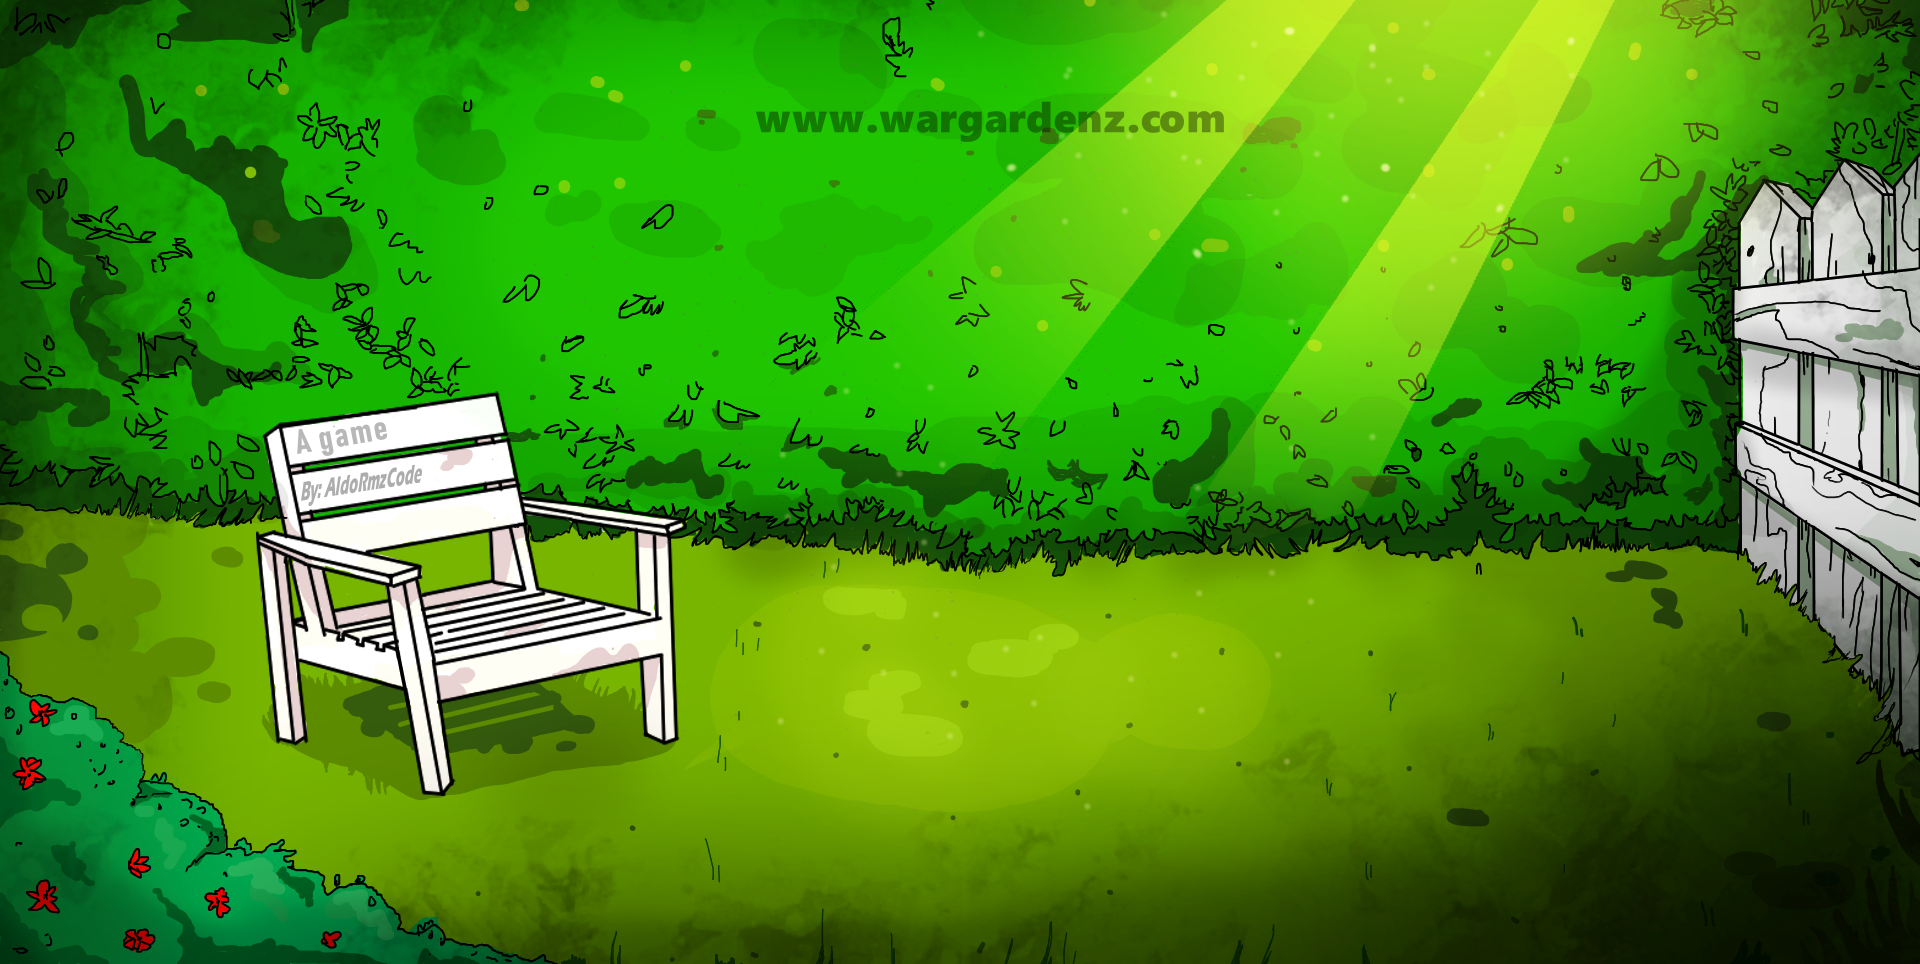
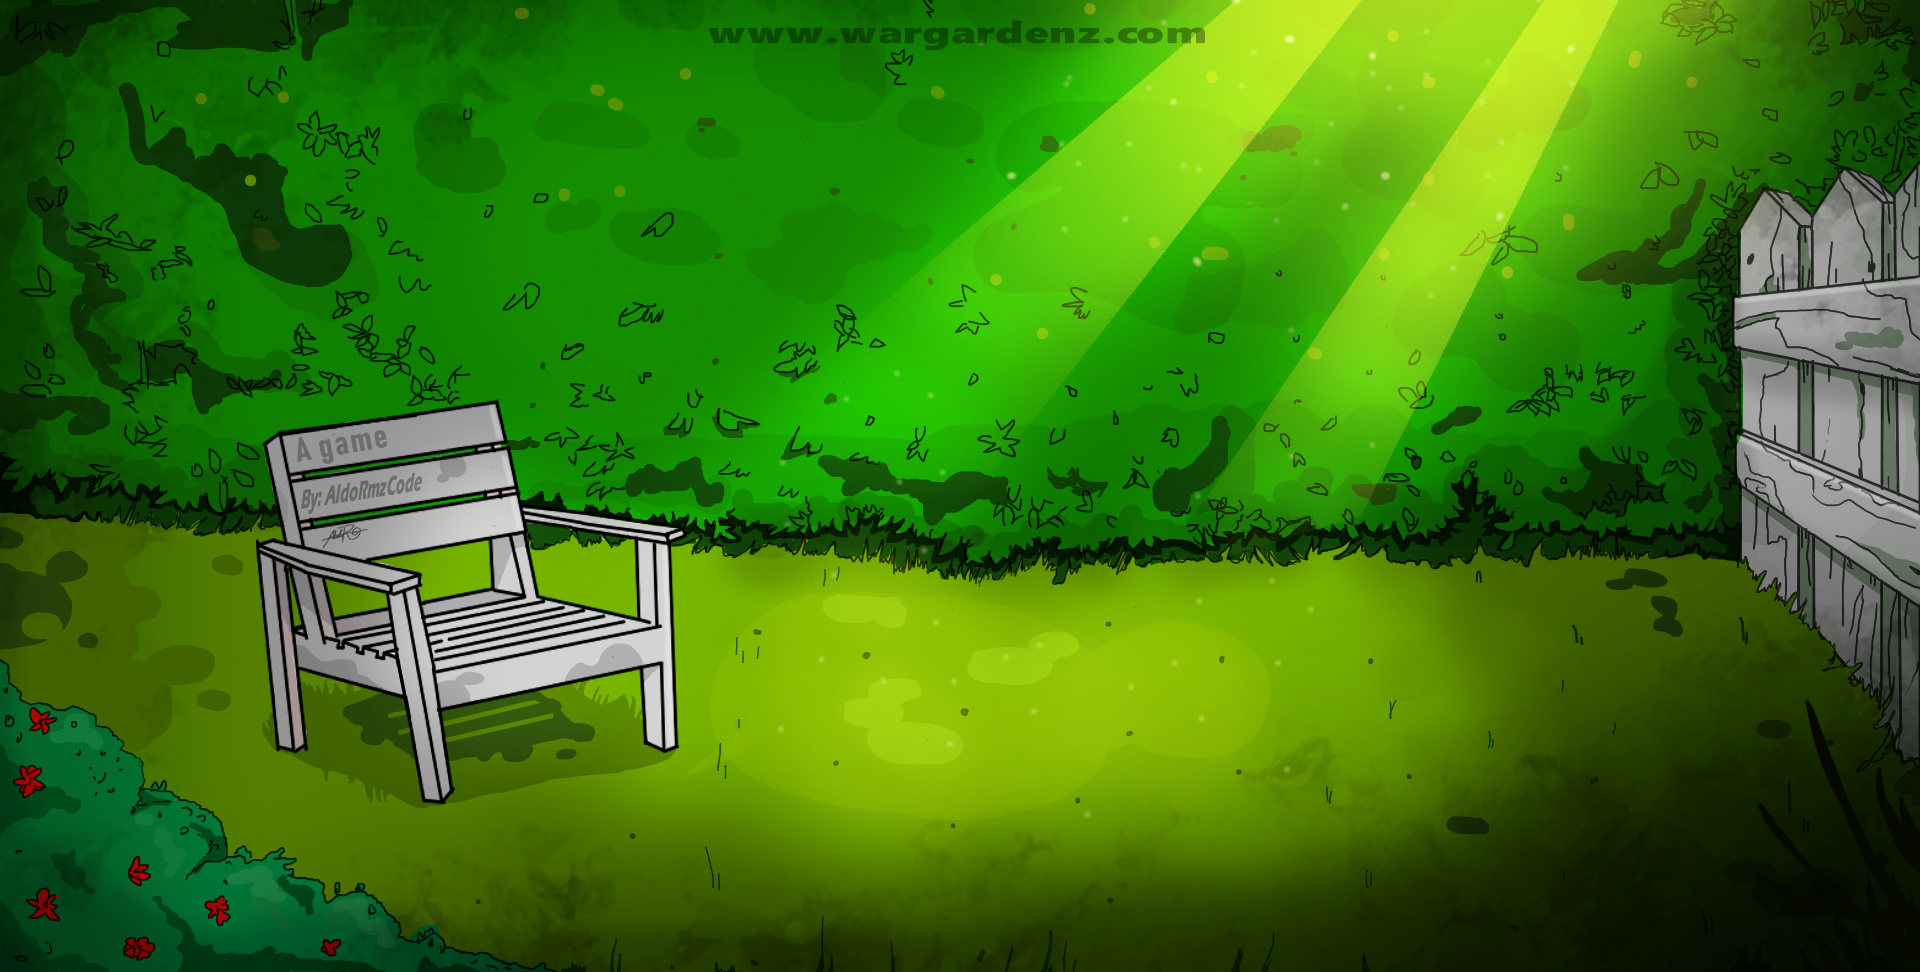
opening mas bonito 2

diff --git a/src/promo.html b/src/promo.html
@@ -2,7 +2,7 @@
   <h1>
      ¡¡¡ WELCOME !!!
   </h1>
-  <h2>Actualizado en: Dic 13 2022</h2>
+  <h2>Actualizado en: Dic 21 2022</h2>
   <ul>
     <li>
       <strong style="color: orange;"> By: AldoRmzCode </strong>
@@ -20,7 +20,7 @@
 
   </ul>
   <a class="primary-link" target="_blank"
-    href="https://www.instagram.com/aldo.rmz.x/?hl=es-la">
+    href="https://www.instagram.com/wargardenz/">
     Enviame propuestas/consejos ;)</a>
   <br />
 
